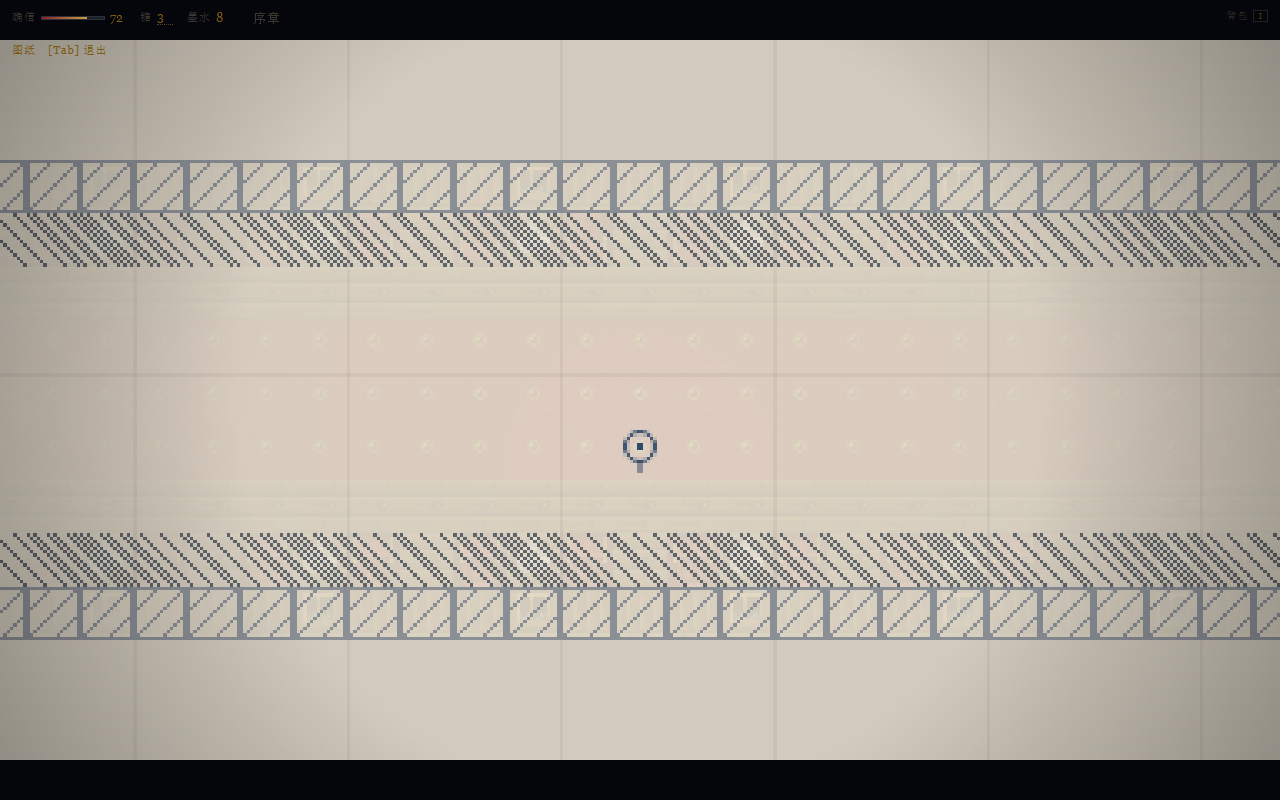
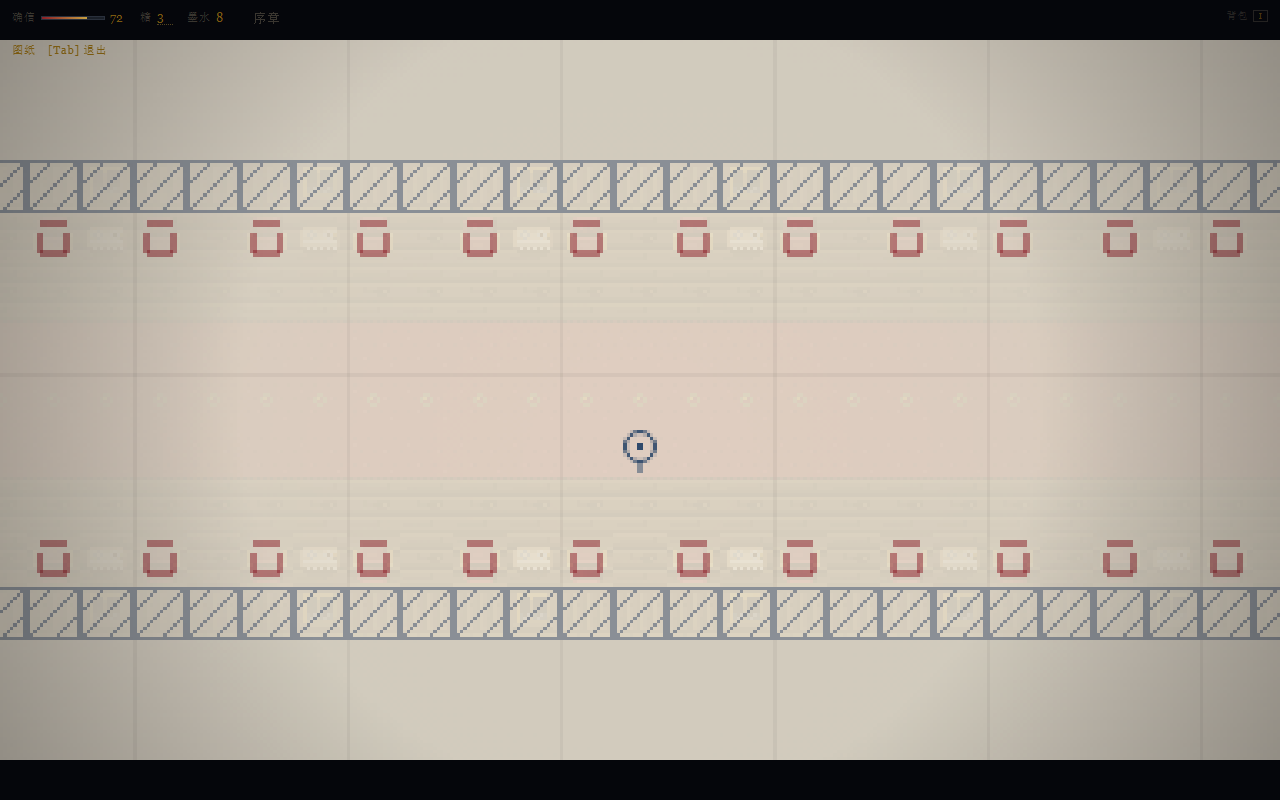
feat: 车厢家具美术定稿 + 图纸 seat 字形
- 小桌 K：12x7 长方形桌面 + 木边 + 白桌布（5 齿垂边）+ 碟/杯 + 两层地板投影
- 座椅 J/j：靠背亮弧 + 深缝 + 内收 2px 的坐垫 + 2px 黄铜扶手（圆头）
- 地毯拆成 c(上边)/C(毯面)/d(下边)，整条毯只有首尾有包边与流苏，
  修掉「三条独立红带」；织纹 4px 一针，黄铜菱形只剩中间一排
- 四个 NPC 去掉 tall（renderer 的 isChar 已统一底对齐）
- struct 座椅 B->J；renderer 的 drawStructGlyph 补 case 'seat'
  （靠背横线 + U 形坐垫），修掉图纸模式座椅空白

Changed region(s): [[0.0, 0.6562, 1.0, 0.75], [0.0, 0.25, 1.0, 0.3438]]

diff --git a/src/game/art/tiles.ts b/src/game/art/tiles.ts
@@ -994,10 +994,13 @@ function drawCoachSeat(g: Ctx): void {
 }
 
 /**
- * 单人座椅（J / j）：与长椅 'U' 同一套丝绒，但只有一个坐垫，比 U 窄一圈。
- * 靠背朝车壁、坐垫朝过道：上排用 'J'（靠背在上），下排用镜像的 'j'（靠背在下），
- * 这样上下两排同一 x 的椅子隔着地毯相对。两侧各一道黄铜扶手。
- * 座位左右各留 2px 暗底：密排成 J K J 时，椅子之间仍读得出缝隙。
+ * 单人座椅（J / j）：一把朝过道的厢座单椅（俯视），不是一格红方块。
+ * 靠背 y1..y6、坐垫 y7..y12，中间 y6 一道近黑深缝把两块分开；
+ * 靠背 x3..x12（顶行窄 1px、两肩在 y2 下折 → 上沿是一道受光亮弧，右缘压暗）；
+ * 坐垫 x4..x11，比靠背两侧各内收 1px，是比靠背亮一档的丝绒鼓包，下缘两角收圆；
+ * 两侧黄铜扶手各 2px 宽（左 x2..x3、右 x12..x13），y6..y11，y6 是圆头；
+ * 椅子正下方只压一条落影 —— 四周（x0..x1 / x14..x15）留出木地板，椅子才立得住。
+ * 'j' 是同一张图上下翻转：靠背贴下侧车壁，坐垫朝上方的过道，隔着地毯与上排相对。
  */
 function drawCoachSeatSingle(g: Ctx, down: boolean): void {
   // 下排：整格上下翻转（靠背贴下侧车壁，坐垫朝向上方的过道）
@@ -1006,107 +1009,139 @@ function drawCoachSeatSingle(g: Ctx, down: boolean): void {
     g.translate(0, TILE)
     g.scale(1, -1)
   }
-  // 座位之间的暗底：让椅子比格子窄一圈，一眼区分"单人椅"与"双人长椅"
-  r(g, 0, 0, TILE, TILE, '#2a080d')
-  // 靠背：顶沿受光、右缘压暗（椅子本体只占 x3..x12，左右各留 2px 暗底）
-  r(g, 3, 0, 10, 8, '#4e1219')
-  r(g, 4, 0, 8, 1, '#9a3038')        // 顶沿受光
-  r(g, 3, 1, 1, 7, '#6e1a24')        // 左缘受光
-  r(g, 12, 1, 1, 7, '#3a0b12')       // 右缘背光
-  // 绒面竖光
-  for (const x of [5, 7, 10]) r(g, x, 2, 1, 6, '#5c161f')
-  r(g, 6, 2, 1, 5, '#7d1e27')
-  // 靠背与坐垫之间的深缝
-  r(g, 3, 8, 10, 1, '#2a080d')
-  // 坐垫：单座，没有 U 的中间分缝
-  r(g, 3, 9, 10, 6, '#6e1a24')
-  r(g, 3, 9, 10, 1, '#9a3038')       // 前沿受光
-  r(g, 3, 10, 1, 5, '#8c2a30')
-  r(g, 12, 10, 1, 5, '#4e1219')
-  r(g, 3, 14, 10, 1, '#4e1219')      // 前缘压暗
-  // 单座鼓包高光：一条横向的软垫起伏
-  r(g, 5, 10, 5, 1, '#8c2a30')
-  r(g, 6, 11, 3, 1, '#7d1e27')
-  // 黄铜扶手：窄条，只占坐垫两侧
-  r(g, 2, 8, 1, 7, C.brass)
-  r(g, 2, 7, 1, 1, C.gold)
-  r(g, 13, 8, 1, 7, C.brass)
-  r(g, 13, 7, 1, 1, C.gold)
-  // 丝绒反光
-  px(g, 6, 3, '#b0343c')
-  px(g, 8, 12, '#9a3038')
+  // 底：车厢木地板。椅子两侧留 3px、上下也留空，才读作"摆在车厢里的一把椅子"
+  drawCoachFloor(g)
+  // ---- 靠背 y1..y6 ----
+  r(g, 3, 2, 10, 5, '#481017')       // 靠背本体 y2..y6
+  r(g, 4, 1, 8, 1, '#481017')        // 顶沿窄 1px → 左右是圆肩
+  r(g, 5, 1, 6, 1, '#cf4a54')        // 上沿受光亮弧：中间一段最亮
+  px(g, 4, 1, '#a8303c'); px(g, 11, 1, '#a8303c')
+  px(g, 3, 2, '#a8303c')             // 亮弧顺着左肩往下折一格
+  r(g, 12, 2, 1, 5, '#1a0508')       // 右缘：近黑轮廓，把椅子从木地板上切出来
+  // 绒面：左缘受光 + 三道竖光条
+  r(g, 3, 3, 1, 3, '#6e1a24')
+  for (const x of [5, 7, 10]) r(g, x, 3, 1, 3, '#5c161f')
+  r(g, 6, 3, 1, 2, '#8c2a30')
+  px(g, 9, 4, '#7d1e27')
+  // 靠背与坐垫之间的深缝（1px 暗红黑）
+  r(g, 4, 6, 8, 1, '#1a0508')
+  // ---- 坐垫 y7..y12：比靠背窄 2px（两侧各内收 1px，正好落在两根扶手之间）----
+  r(g, 4, 7, 8, 5, '#85212b')        // 坐垫本体：比靠背亮一档，先分出前后
+  r(g, 4, 7, 8, 1, '#c94a52')        // 朝过道那一侧的前沿受光
+  r(g, 4, 8, 1, 4, '#9a3038')        // 左缘受光
+  r(g, 11, 8, 1, 4, '#4e1219')       // 右缘背光
+  r(g, 5, 12, 6, 1, '#3a0b12')       // 前缘压暗，两角收圆
+  // 丝绒鼓包的两处高光
+  r(g, 6, 9, 3, 1, '#9a3038')
+  px(g, 7, 10, '#8c2a30'); px(g, 8, 10, '#8c2a30')
+  // 椅子在木地板上的落影：只在正下方压一条，别铺满整格
+  r(g, 4, 13, 8, 1, '#3a2a1a')
+  // ---- 两侧黄铜扶手：各 2px 宽，y6..y11，y6 是圆头 ----
+  // 左 x2..x3：外侧受光，内侧那道暗黄铜是坐垫挨着扶手的影
+  r(g, 2, 6, 2, 1, '#e8cf70')
+  r(g, 2, 7, 1, 4, C.gold)
+  r(g, 3, 7, 1, 4, C.brass)
+  r(g, 2, 11, 2, 1, '#5f5430')
+  // 右 x12..x13：镜面对称，两条扶手才夹得住坐垫
+  r(g, 12, 6, 2, 1, '#e8cf70')
+  r(g, 12, 7, 1, 4, C.brass)
+  r(g, 13, 7, 1, 4, C.gold)
+  r(g, 12, 11, 2, 1, '#5f5430')
   if (down) g.restore()
 }
 
 /**
- * 厢座小桌（K）：白色小圆桌俯视。
- * 底是车厢木地板（与 '-' 同调），桌子才不会浮空；
- * 桌面白瓷灰、左上受光右下背光，一圈黄铜桌沿；
- * 桌面上横铺一条白桌旗（两道褶、下缘锯齿垂边），桌面上半摆一碟一杯，
- * 杯沿一点瓷器反光。阻挡：玩家只能绕到过道上，不能从桌面上穿过去。
+ * 厢座小桌（K）：一张俯视的车厢小桌，不是白瓷缸。
+ * 桌面 12×7（x2..x13 / y4..y10，四角各收 1px）、暖白带木纹；扁一点才像桌子。
+ * 桌沿 y10 压一道深色，y11 与 y12 在木地板上压出投影 —— 桌子"坐"在地板上，
+ * 不是浮着的；俯视看不到桌腿。
+ * 一条白桌布横贯桌面，下缘垂过桌沿 1px、带锯齿边；
+ * 布上方左边一只小碟、右边一只带杯耳的茶杯 —— 两样东西分开放，中间留出空当。
+ * 阻挡：玩家只能绕到过道上，不能从桌面上穿过去。
  */
 function drawCoachTable(g: Ctx): void {
-  // 底：横木地板，和过道地面同一块料
+  // 底：横木地板，和过道地面同一块料，桌子才不会浮空
   drawCoachFloor(g)
-  const cx = 7.5
-  const cy = 7.5
-  // 桌面三层：地板上的一圈宽投影 → 黄铜桌沿 → 白瓷桌面（左上亮、右下灰）
-  for (let y = 0; y < TILE; y++) {
-    for (let x = 0; x < TILE; x++) {
-      const dx = x - cx
-      const dy = y - cy
-      const d = Math.sqrt(dx * dx + dy * dy)
-      if (d <= 6.8) px(g, x, y, d <= 6.1 ? '#2e2214' : '#241a10')
-      if (d <= 5.3) px(g, x, y, dx + dy < 0 ? C.brass : '#5f5430')
-      if (d <= 4.5) px(g, x, y, dx + dy < -1 ? C.bone : C.pale)
-    }
-  }
-  // 桌旗：横铺的一条白布，两端垂到桌沿外；两侧压一道灰边，白布才从白桌面上跳出来
-  r(g, 3, 6, 10, 1, C.pale)
-  r(g, 3, 7, 10, 3, C.sugar)
-  r(g, 3, 7, 10, 1, '#f7f2e8')     // 布面受光
-  r(g, 3, 9, 10, 1, C.pale)        // 布边阴影
-  // 垂边：下缘锯齿，读作布垂下来
-  for (const x of [4, 6, 8, 10, 12]) px(g, x, 10, C.bone)
-  // 布褶
-  r(g, 6, 7, 1, 3, C.pale)
-  r(g, 9, 7, 1, 3, C.pale)
-  // 桌上：碟、杯与一点瓷器反光（放在桌面上半，避开桌旗）
-  r(g, 6, 3, 4, 1, C.pale)
-  r(g, 5, 4, 6, 1, C.bone)
-  r(g, 6, 5, 4, 1, C.pale)
-  r(g, 7, 2, 2, 1, C.bone)
-  r(g, 8, 1, 1, 1, C.sugar)
-  px(g, 8, 1, '#ffffff')           // 杯口反光
-  // 碟边的小铜勺
-  px(g, 9, 4, '#5f5430')
-  px(g, 10, 4, C.gold)
+  // ---- 桌面：x2..x13 / y4..y10（12×7，扁一点更像桌子）----
+  // 三面一圈木边（受光在上/左、背光在右），桌板才是"一块桌面"而不是一团白
+  r(g, 3, 4, 10, 1, '#b99a68')     // 远侧木沿受光（首行窄 1px，四角因此是圆的）
+  r(g, 2, 5, 1, 5, '#c8a878')      // 左木沿受光
+  r(g, 13, 5, 1, 5, '#8a6f45')     // 右木沿背光
+  r(g, 3, 5, 10, 5, '#e6d6b4')     // 桌板 y5..y9：暖白偏木，比桌布暗一档
+  // 木纹：两笔横向短纹，避开桌上的碟与杯，读作木料而不是白瓷
+  r(g, 7, 5, 2, 1, '#cdb78e')
+  r(g, 3, 7, 2, 1, '#cdb78e')
+  // ---- 桌上左边：一只小圆碟（菱形，四角留空才不读成方块）----
+  px(g, 5, 5, C.pale)              // 碟后沿（冷灰瓷沿，才从暖白桌面上跳出来）
+  r(g, 4, 6, 3, 1, C.pale)         // 碟两侧
+  px(g, 5, 6, C.sugar)             // 碟心
+  px(g, 5, 7, C.pale)              // 碟前沿
+  // ---- 桌上右边：一只茶杯（白瓷口 + 深红茶汤 + 右边黄铜杯耳）----
+  px(g, 10, 5, '#f7f2e8')          // 杯口后沿
+  px(g, 9, 6, C.bone)              // 杯口左
+  px(g, 10, 6, '#3a2414')          // 茶汤：整张桌上最暗的一点，杯才立得住
+  px(g, 11, 6, C.bone)             // 杯口右
+  px(g, 10, 7, C.bone)             // 杯口前沿
+  px(g, 12, 6, C.gold)             // 杯耳·受光
+  px(g, 12, 7, '#5f5430')          // 杯耳·背光
+  // ---- 白桌布：横贯桌面，下缘垂过桌沿 ----
+  r(g, 3, 8, 10, 1, '#fdfcf8')     // 布面受光（比暖白桌板更冷、更亮，才分得出是布）
+  r(g, 3, 9, 10, 1, '#cdbfa4')     // 布面折下去投在桌板上的影
+  // ---- 桌沿：1px 深色桌沿 + 桌布垂下来的锯齿边 ----
+  r(g, 2, 10, 12, 1, '#4a3822')
+  for (const x of [4, 6, 8, 10, 12]) px(g, x, 10, '#fdfcf8')
+  // ---- 落在木地板上的投影：桌子"坐"在地上，不是浮着的（俯视看不到桌腿）----
+  r(g, 3, 11, 10, 1, '#2e2214')
+  r(g, 4, 12, 8, 1, '#3f2f1c')
 }
 
 /**
- * 厢座地毯（C）：过道中间铺的一条窄长毯。
- * 与门厅地毯 ',' 同色系（深红绒面），但更暗、纹样更细：
- * 毯心一列黄铜小菱形，纵向串成一条断续的织纹带（三行 C 叠起来才成整条），
- * 其余是细密的绒面织点，横向平铺不会拼成硬条纹。
+ * 厢座地毯（C / c / d）：过道中间铺的一条窄长毯，铺在木地板上。
+ * 毯面（C）：比门厅地毯 ',' 亮一档的暗红丝绒，织纹每 4px 一针、隔行错位
+ * （旧版 2px 一针，平铺后像格子布）；毯心的黄铜小菱形只画在中间一行，
+ * 整条毯子因此只有中间一条 16px 一格的织纹带，不会铺成一整片花格子。
+ * 整条毯子只有最外两行有包边：最上行用 c（上包边 + 短流苏），最下行用 d（下包边 + 短流苏），
+ * 中间行用纯毯面 C —— 否则每一行都带边，3 行平铺会读成三条独立的地毯。
  */
-function drawAisleCarpet(g: Ctx): void {
-  // 绒面底：比 ',' 的暗血红再暗一档，和两侧木地板拉得开
-  r(g, 0, 0, TILE, TILE, '#7d1a24')
-  // 绒面织点：隔行错位、短针，读作绒而不是噪点
-  for (let y = 0; y < TILE; y += 3) {
-    const x0 = y % 6 === 0 ? 1 : 3
-    for (let x = x0; x < TILE; x += 4) px(g, x, y, '#5e1219')
+function paintAisleFace(g: Ctx, medallion: boolean): void {
+  // 绒面底：比 ',' 的暗血红亮一档，和两侧木地板拉得开
+  r(g, 0, 0, TILE, TILE, '#8f2029')
+  // 绒面织点：4px 一针、隔行错位，密度约为旧版的一半
+  for (let y = 3; y < TILE - 1; y += 4) {
+    const x0 = y % 8 === 3 ? 2 : 0
+    for (let x = x0; x < TILE; x += 4) px(g, x, y, '#741a23')
   }
-  // 毯心黄铜织纹：每格一个 8px 高的小菱形，纵向串成稀疏的织纹带
-  const dia: [number, number][] = [
-    [7, 4], [8, 4], [6, 5], [9, 5], [6, 6], [9, 6], [7, 7], [8, 7],
-  ]
-  for (const [x, y] of dia) px(g, x, y, C.brass)
-  // 两针甜金，几点暗影
-  px(g, 7, 5, C.gold)
-  px(g, 8, 6, '#5e1219')
-  px(g, 4, 2, '#5e1219')
-  px(g, 11, 12, '#5e1219')
+  // 几针提亮的绒面受光，读作丝绒的毛向而不是噪点
+  for (const [x, y] of [[2, 5], [11, 7], [5, 11], [13, 13]]) px(g, x, y, '#a8303c')
+  if (!medallion) return
+  // 毯心黄铜小菱形：只画在中间一行，一格一枚
+  for (const [x, y] of [[7, 6], [8, 6], [6, 7], [9, 7], [6, 8], [9, 8], [7, 9], [8, 9]]) {
+    px(g, x, y, C.brass)
+  }
+  px(g, 7, 7, C.gold)
+}
+
+/** 地毯包边：深色 1px + 每 2px 一根的短流苏，只画在 tile 的某一行（y0 或 y15） */
+function paintAisleHem(g: Ctx, y: number): void {
+  r(g, 0, y, TILE, 1, '#4a0f16')
+  for (let x = 1; x < TILE; x += 2) px(g, x, y, '#180409')
+}
+
+/** 地毯·中间行：纯毯面 + 一枚黄铜菱形（整条毯子唯一的一排织纹带） */
+function drawAisleCarpet(g: Ctx): void {
+  paintAisleFace(g, true)
+}
+
+/** 地毯·最上行：毯面 + 上包边与短流苏 */
+function drawAisleCarpetTop(g: Ctx): void {
+  paintAisleFace(g, false)
+  paintAisleHem(g, 0)
+}
+
+/** 地毯·最下行：毯面 + 下包边与短流苏 */
+function drawAisleCarpetBottom(g: Ctx): void {
+  paintAisleFace(g, false)
+  paintAisleHem(g, TILE - 1)
 }
 
 /** 虚空：不画任何像素，让底层夜色或远景透出来；空白字符 ' ' 用 */
@@ -1148,8 +1183,10 @@ export const TILES: Record<string, HTMLCanvasElement> = {
   'U': make(drawCoachSeat),      // 座椅：暗红丝绒长椅 + 铜扶手（阻挡）
   'J': make(g => drawCoachSeatSingle(g, false)), // 单人座椅·上排：靠背朝上（车壁），坐垫朝过道（阻挡）
   'j': make(g => drawCoachSeatSingle(g, true)),  // 单人座椅·下排：镜像，靠背朝下，与上排同一 x 的椅子相对（阻挡）
-  'K': make(drawCoachTable),     // 车厢小桌：白瓷圆桌 + 桌旗 + 碟与杯（阻挡）
-  'C': make(drawAisleCarpet),    // 厢座地毯：过道中间的深红窄毯 + 黄铜织纹（可走）
+  'K': make(drawCoachTable),     // 车厢小桌：12×7 暖白桌面 + 白桌布 + 碟与杯（阻挡）
+  'C': make(drawAisleCarpet),    // 厢座地毯·中间行：暗红绒面 + 一枚黄铜菱形（可走）
+  'c': make(drawAisleCarpetTop), // 厢座地毯·最上行：毯面 + 上包边与短流苏（可走）
+  'd': make(drawAisleCarpetBottom), // 厢座地毯·最下行：毯面 + 下包边与短流苏（可走）
   ' ': make(drawVoid),           // 虚空：透明，露出底层夜色 / 远景
 }
 
@@ -1180,3 +1217,5 @@ export const STRUCT_SYMBOL: Record<string, { color: string; kind: string }> = {
 }
 
 export { GEM, make }
+
+

diff --git a/src/game/world/maps.ts b/src/game/world/maps.ts
@@ -17,29 +17,31 @@ const train: GameMap = {
   // 上下两排厢座：每个厢座 = 两把单人椅夹一张小桌（J K J，两座相对），
   // 厢座之间空一格；上下两排在 x 上对齐 —— 上排椅 'J' 靠背朝上、下排椅 'j' 靠背朝下，
   // 同一 x 的上下两把椅子隔着地毯相对，中间是过道。
-  // 中间三行铺地毯 C 当过道，两侧各一行木地板 -（座椅搁脚的空当）。
+  // 中间三行是过道地毯：最上一行 c（上包边 + 流苏）、中间 C（纯毯面）、最下一行 d（下包边 + 流苏），
+  // 这样整条毯子只有最外两行带边，不会每一行都带边而读成三条地毯。
+  // 两侧各一行木地板 -（座椅搁脚的空当）。
   // 车窗 N 开在两侧车壁上、每 4 格一扇，正好落在厢座小桌的正上方/正下方。
   // 两端是车门洞 D（左端通下一节车厢，右端下车去糖堡站）。
   tiles: [
     '===N===N===N===N===N===N===N===N====',
     '=-JKJ-JKJ-JKJ-JKJ-JKJ-JKJ-JKJ-JKJ--=',
     '=----------------------------------=',
+    'DccccccccccccccccccccccccccccccccccD',
     'DCCCCCCCCCCCCCCCCCCCCCCCCCCCCCCCCCCD',
-    'DCCCCCCCCCCCCCCCCCCCCCCCCCCCCCCCCCCD',
-    'DCCCCCCCCCCCCCCCCCCCCCCCCCCCCCCCCCCD',
+    'DddddddddddddddddddddddddddddddddddD',
     '=----------------------------------=',
     '=-jKj-jKj-jKj-jKj-jKj-jKj-jKj-jKj--=',
     '===N===N===N===N===N===N===N===N====',
   ],
   struct: [
     'SSSSSSSSSSSSSSSSSSSSSSSSSSSSSSSSSSSS',
-    'SFBBBFBBBFBBBFBBBFBBBFBBBFBBBFBBBFFS',
+    'SFJFJFJFJFJFJFJFJFJFJFJFJFJFJFJFJFFS',
     'SFFFFFFFFFFFFFFFFFFFFFFFFFFFFFFFFFFS',
     'TFFFFFFFFFFFFFFFFFFFFFFFFFFFFFFFFFFT',
     'TFFFFFFFFFFFFFFFFFFFFFFFFFFFFFFFFFFT',
     'TFFFFFFFFFFFFFFFFFFFFFFFFFFFFFFFFFFT',
     'SFFFFFFFFFFFFFFFFFFFFFFFFFFFFFFFFFFS',
-    'SFBBBFBBBFBBBFBBBFBBBFBBBFBBBFBBBFFS',
+    'SFJFJFJFJFJFJFJFJFJFJFJFJFJFJFJFJFFS',
     'SSSSSSSSSSSSSSSSSSSSSSSSSSSSSSSSSSSS',
   ],
   entities: [
@@ -51,20 +53,19 @@ const train: GameMap = {
 
     // ---- 上排厢座（y1，窗在桌子正上方的 x3/7/11/15/19/23/27/31）----
     // 睡着的老人：第 2 个厢座，坐在靠窗那把椅子上
-    // （tall：24×32 的行走图向上抬一格，脚落在座位格底部，读作"坐着"）
-    { id: 'sleeper', x: 6, y: 1, sprite: 'npc_sleeper_down', solid: true, tall: true, interact: 'trainSleeper' },
+    // （24×32 的角色精灵由 renderer 的 isChar 统一底对齐到格子底边，
+    //   地图实体不要再写 tall —— 叠上会双重上抬一格）
+    { id: 'sleeper', x: 6, y: 1, sprite: 'npc_sleeper_down', solid: true, interact: 'trainSleeper' },
     // 看报的先生：第 4 个厢座
-    { id: 'newspaper', x: 14, y: 1, sprite: 'npc_reader_down', solid: true, tall: true, interact: 'trainNewspaper' },
+    { id: 'newspaper', x: 14, y: 1, sprite: 'npc_reader_down', solid: true, interact: 'trainNewspaper' },
     // 行李架：第 7 与第 8 个厢座之间的空格，靠窗（tall：向上占一格，挂在窗下）
     { id: 'rack', x: 29, y: 1, sprite: 'bookshelf', solid: true, tall: true, interact: 'trainRack' },
 
     // ---- 下排厢座（y7，与上排同一套 x）----
-    // 抱孩子的女人：第 6 个厢座的靠窗椅。
-    // tall：行走图是 24×32，默认按格顶向下画会溢出到下侧车壁里；
-    // 向上抬一格后，脚落在座位格底部，读作"坐在座位上"。
-    { id: 'mother', x: 22, y: 7, sprite: 'npc_mother_down', solid: true, tall: true, interact: 'trainMother' },
+    // 抱孩子的女人：第 6 个厢座的靠窗椅。（同上：isChar 已底对齐，不写 tall）
+    { id: 'mother', x: 22, y: 7, sprite: 'npc_mother_down', solid: true, interact: 'trainMother' },
     // 孩子：同一个厢座里、母亲对面那把椅子（新增实体，纯装饰，没有交互脚本）
-    { id: 'child', x: 24, y: 7, sprite: 'npc_child_down', solid: true, tall: true },
+    { id: 'child', x: 24, y: 7, sprite: 'npc_child_down', solid: true },
     // 空座与手杖：第 7 个厢座靠窗那把椅子（座位空着，手杖靠在座垫上）
     { id: 'cane', x: 28, y: 7, sprite: 'tableSmall', solid: true, interact: 'trainCane' },
 

diff --git a/src/game/render/renderer.ts b/src/game/render/renderer.ts
@@ -88,12 +88,12 @@ function drawEntities(ctx: CanvasRenderingContext2D, camX: number, camY: number)
     const w = single.width
     const h = single.height
     const dx = e.x * TILE + (TILE - w) / 2
-    // 角色精灵（24×32）比旧的 16×24 高 8px：若仍按格子顶部对齐，脚底会从
-    // 格子顶 +22 掉到 +30，角色整体陷进下一格。这里只对角色名（hero_/emma_/
-    // hermann_/marta_/ds_/npc_）把多出来的高度抬回上方，脚底保持旧的 y22；
-    // 32 高的家具（如 easel）与 h ≤ 24 的精灵完全不受影响。
+    // 角色精灵（24×32）比格子（16）高：精灵的脚画在它自己画布的最底部，
+    // 所以必须"底对齐"到格子底边（dy = y*TILE + TILE - h），否则会下沉一格。
+    // 注意：不能用 Math.max(0, 24 - h) —— h = 32 时那恒为 0，分支永远不生效。
+    // 角色一并在这里处理，地图实体就不需要各自写 tall 了。
     const isChar = /^(hero|emma|hermann|marta|ds|npc)_/.test(e.sprite)
-    const dy = e.tall ? e.y * TILE + TILE - h : e.y * TILE + (isChar ? Math.max(0, 24 - h) : 0)
+    const dy = e.tall || isChar ? e.y * TILE + TILE - h : e.y * TILE
     if (dx + w < camX - 32 || dx > camX + VIEW_W + 32) continue
     if (dy + h < camY - 32 || dy > camY + VIEW_H + 32) continue
     ctx.drawImage(single, Math.round(dx), Math.round(dy))
@@ -361,6 +361,17 @@ function drawStructGlyph(
       for (let i = 0; i < 4; i++) {
         ctx.moveTo(sx, sy + 3 + i * 4); ctx.lineTo(sx + TILE, sy + 3 + i * 4)
       }
+      ctx.stroke()
+      break
+    case 'seat':
+      // 座椅：一条靠背横线 + 一个 U 形坐垫（俯视的椅子）
+      ctx.beginPath()
+      ctx.moveTo(sx + 4, sy + 3)
+      ctx.lineTo(sx + 12, sy + 3)
+      ctx.moveTo(sx + 4, sy + 6)
+      ctx.lineTo(sx + 4, sy + 12)
+      ctx.lineTo(sx + 12, sy + 12)
+      ctx.lineTo(sx + 12, sy + 6)
       ctx.stroke()
       break
     default:
